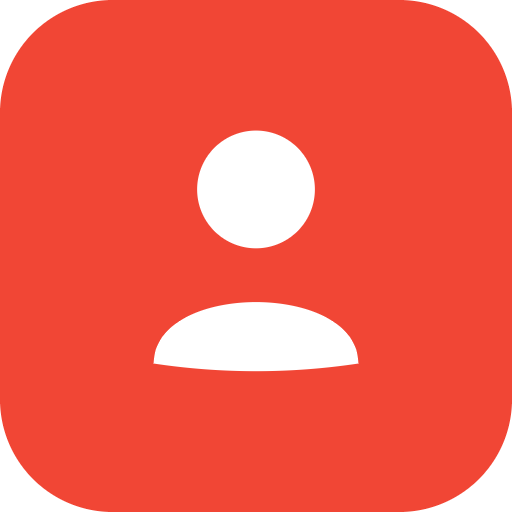
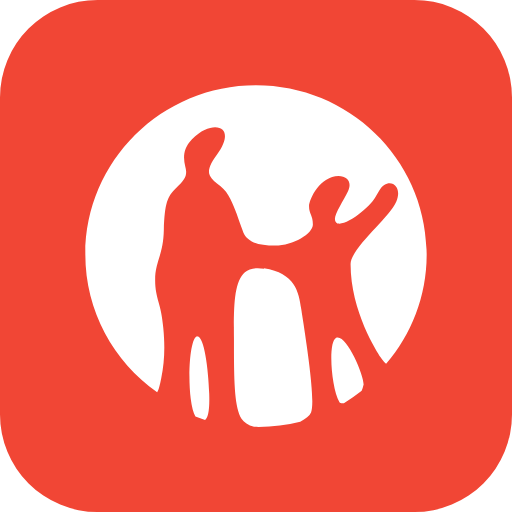
Настоящий логотип Kaspi вместо силуэта человечка.
Иконка приложения (фавикон, PWA-иконки, apple-touch) была дефолтным
силуэтом на красном. Перерисовал из настоящего kaspi_logo (красный знак
с белым символом семьи, вытащен из apk): icon-192/512, apple-touch,
favicon-32 и maskable (для него фон — сплошной красный во весь квадрат,
символ ужат в центр под круглую обрезку). Добавил favicon-32 в head.

Десктопная шапка показывала текст «Kaspi.kz» — заменил на настоящий знак
плюс шрифтовое написание kaspi_kz_900 из apk.

diff --git a/src/App.jsx b/src/App.jsx
@@ -66,7 +66,11 @@ export default function App() {
         <div className="with-sidebar">
           {/* Desktop sidebar */}
           <nav className="sidebar">
-            <div className="s-logo">Kaspi.kz</div>
+            {/* Настоящий логотип: красный знак + шрифтовое написание из apk */}
+            <div className="s-logo">
+              <Icon name="kaspi_logo" size={30} />
+              <Icon name="kaspi_kz_900" size={80} />
+            </div>
             <button className={view === 'home' ? 'active' : ''} onClick={() => setView('home')}><Icon name="home" size={20} /> Главная</button>
             {homeGrid.map((g) => (
               <button key={g.key} className={view === g.key ? 'active' : ''} onClick={() => setView(g.key)}><Icon name={g.icon} size={20} /> {g.label}</button>

diff --git a/index.html b/index.html
@@ -12,6 +12,7 @@
     <link rel="preconnect" href="https://fonts.gstatic.com" crossorigin />
     <link rel="stylesheet" href="https://fonts.googleapis.com/css2?family=Roboto+Flex:opsz,wght@8..144,400..700&display=swap" />
     <link rel="manifest" href="%BASE_URL%manifest.webmanifest" />
+    <link rel="icon" type="image/png" sizes="32x32" href="%BASE_URL%favicon-32.png" />
     <link rel="icon" type="image/png" sizes="192x192" href="%BASE_URL%icon-192.png" />
     <link rel="apple-touch-icon" href="%BASE_URL%apple-touch-icon.png" />
     <meta name="apple-mobile-web-app-capable" content="yes" />

diff --git a/src/index.css b/src/index.css
@@ -760,8 +760,8 @@ svg { display: block; }
     min-height: 100vh; position: sticky; top: 0; align-self: start;
   }
   .sidebar .s-logo {
-    font-size: 25px; font-weight: 700; color: var(--red);
-    letter-spacing: -1px; padding: var(--s2) var(--s3) var(--s5);
+    display: flex; align-items: center; gap: var(--s2);
+    color: var(--ink); padding: var(--s2) var(--s3) var(--s5);
   }
   .sidebar button {
     width: 100%; display: flex; align-items: center; gap: var(--s3);
